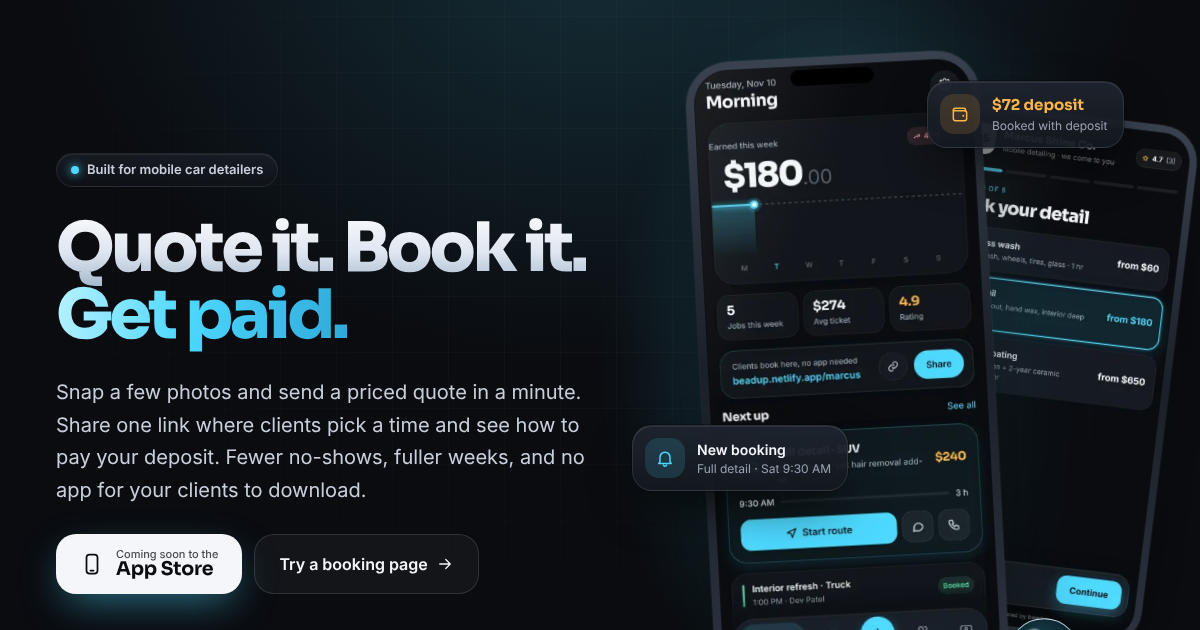
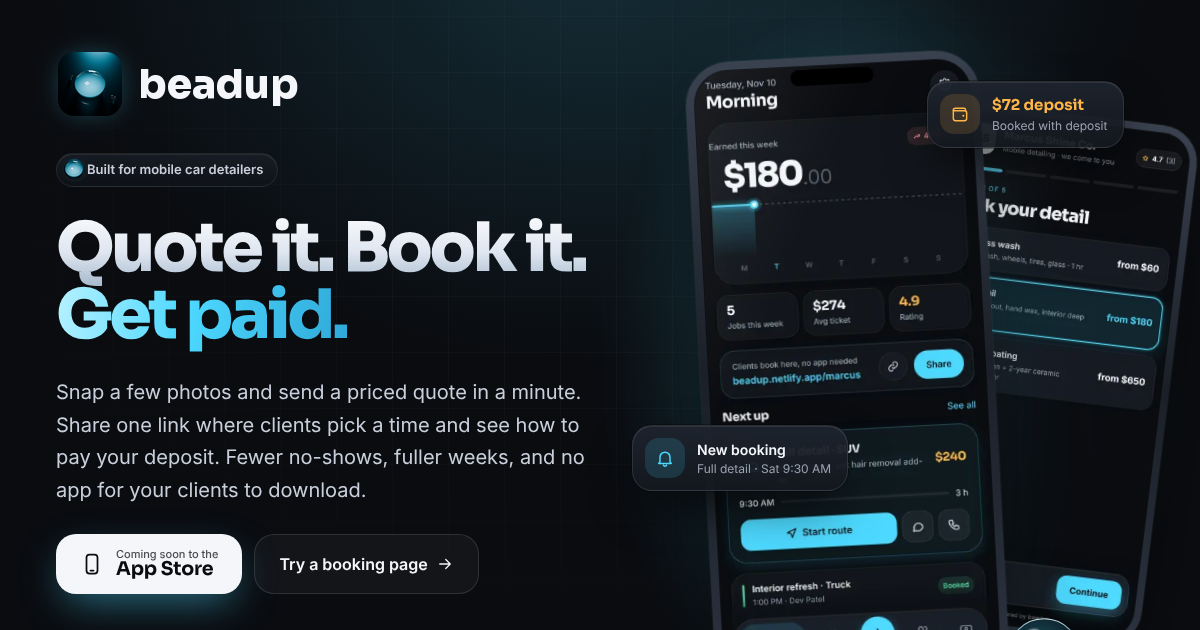
Shares show the Beadup preview card, review reasons, invite code fits
- Every share (booking link, QR, settings, quote, balance link, review request, invite) sends
  the link as a link (iOS Share url), so Messages shows the preview card instead of plain text
- Link previews carry the real app icon: site image gets the icon + wordmark (and the badge's
  dot becomes a bead), each detailer's card shows the icon top-left and in the footer
- Review page asks "What could have been better?" for 1 to 3 stars and "What did you like most?"
  for 4 to 5; the detailer gets a push with the stars and the start of the comment (opens Reviews)
- Booking alerts use the detailer's currency
- Invite & earn: long invite codes shrink to fit instead of being cut off

Changed region(s): [[0.0617, 0.0603, 0.2467, 0.181], [0.0308, 0.2413, 0.0925, 0.2714]]

diff --git a/apps/web/src/lib/og-logo.ts b/apps/web/src/lib/og-logo.ts
@@ -1,0 +1,3 @@
+// The Beadup app icon (128 px PNG), embedded so link-preview images never depend on a network fetch.
+// Regenerate from src/app/apple-icon.png if the icon changes.
[1 lines of base64/hex data omitted]

diff --git a/apps/web/src/lib/push.ts b/apps/web/src/lib/push.ts
@@ -1,4 +1,5 @@
 import "server-only";
+import { formatMoney, type Country } from "./countries";
 import { supabaseAdmin } from "./supabase-admin";
 
 // Booking alerts to the detailer's phone via the Expo push service.
@@ -41,7 +42,7 @@ export async function notifyPayment(bookingId: string, kind: "deposit" | "balanc
   if (!db) return;
   const { data } = await db
     .from("bookings")
-    .select("detailer_id, service_name, starts_at, subtotal_cents, deposit_cents, client:clients(name), detailer:detailers(timezone)")
+    .select("detailer_id, service_name, starts_at, subtotal_cents, deposit_cents, client:clients(name), detailer:detailers(timezone, country)")
     .eq("id", bookingId)
     .maybeSingle();
   if (!data) return;
@@ -52,13 +53,13 @@ export async function notifyPayment(bookingId: string, kind: "deposit" | "balanc
     subtotal_cents: number;
     deposit_cents: number;
     client: { name: string } | null;
-    detailer: { timezone: string } | null;
+    detailer: { timezone: string; country: Country } | null;
   };
   const tz = b.detailer?.timezone ?? "America/Chicago";
   const [first, last] = (b.client?.name ?? "A client").split(" ");
   const who = last ? `${first} ${last[0]}.` : first;
   const when = new Date(b.starts_at).toLocaleString("en-US", { timeZone: tz, weekday: "short", hour: "numeric", minute: "2-digit" });
-  const usd = (c: number) => `$${(c / 100).toFixed(c % 100 ? 2 : 0)}`;
+  const usd = (c: number) => formatMoney(c, b.detailer?.country ?? "US"); // the detailer's own currency
 
   if (kind === "booked") {
     // External payments: the client pays the deposit to the detailer directly.
@@ -68,4 +69,17 @@ export async function notifyPayment(bookingId: string, kind: "deposit" | "balanc
   } else {
     await sendToDetailer(b.detailer_id, `${who} paid you`, `${b.service_name} paid in full, ${usd(b.subtotal_cents)}.`, `/paid/${bookingId}`);
   }
+}
+
+/** "New 2-star review" alert, with the start of what the client wrote. Opens the Reviews screen. */
+export async function notifyReview(token: string, rating: number, body: string): Promise<void> {
+  const db = supabaseAdmin();
+  if (!db) return;
+  const { data } = await db.from("bookings").select("detailer_id, client:clients(name)").eq("review_token", token).maybeSingle();
+  if (!data) return;
+  const client = (Array.isArray(data.client) ? data.client[0] : data.client) as { name?: string } | null;
+  const first = (client?.name ?? "A client").split(" ")[0];
+  const text = body.trim();
+  const said = text ? `: "${text.length > 90 ? `${text.slice(0, 89)}…` : text}"` : ".";
+  await sendToDetailer(data.detailer_id as string, `New ${rating}-star review`, `${first} rated your detail ${rating} out of 5${said}`, "/reviews");
 }

diff --git a/apps/mobile/src/app/settings/invite.tsx b/apps/mobile/src/app/settings/invite.tsx
@@ -1,7 +1,7 @@
 import * as Clipboard from 'expo-clipboard';
 import { LinearGradient } from 'expo-linear-gradient';
 import { useState } from 'react';
-import { Pressable, Share, StyleSheet, View } from 'react-native';
+import { Pressable, StyleSheet, View } from 'react-native';
 import Animated, { FadeInDown } from 'react-native-reanimated';
 
 import { LiquidBead } from '@/components/bead/LiquidBead';
@@ -15,6 +15,7 @@ import { Text } from '@/components/ui/Text';
 import { claimReferral, fetchReferralStatus, useQuery, type ClaimError } from '@/lib/data';
 import { dayLabel } from '@/lib/format';
 import { haptic } from '@/lib/haptics';
+import { shareLink } from '@/lib/share';
 import { apiBaseUrl } from '@/lib/supabase';
 import { colors, space } from '@/theme/tokens';
 
@@ -41,12 +42,13 @@ export default function Invite() {
 
   const site = apiBaseUrl.replace(/^https?:\/\//, '');
   const message = s
-    ? `I run my detailing bookings on Beadup: quotes from photos, one booking link, deposits straight to me. Get it at ${apiBaseUrl} and enter my code "${s.code}" when you set up. We both get a free month of Pro.`
+    ? `I run my detailing bookings on Beadup: quotes from photos, one booking link, deposits straight to me. Enter my code "${s.code}" when you set up and we both get a free month of Pro.`
     : '';
 
   const share = () => {
     haptic.select();
-    Share.share({ message }).catch(() => {});
+    // The site link carries the Beadup preview card (logo + app screens).
+    shareLink(message, apiBaseUrl);
   };
   const copy = async () => {
     if (!s) return;
@@ -91,7 +93,8 @@ export default function Invite() {
           <GlassCard>
             <Text variant="eyebrow">Your invite code</Text>
             <View style={styles.codeRow}>
-              <Text style={styles.code} numberOfLines={1}>
+              {/* Long codes shrink to fit instead of being cut off. */}
+              <Text style={styles.code} numberOfLines={1} adjustsFontSizeToFit minimumFontScale={0.4}>
                 {s.code}
               </Text>
               <Pressable onPress={copy} style={styles.copy} accessibilityRole="button" accessibilityLabel={copied ? 'Code copied' : 'Copy invite code'}>

diff --git a/apps/web/src/app/[handle]/opengraph-image.tsx b/apps/web/src/app/[handle]/opengraph-image.tsx
@@ -1,6 +1,7 @@
 import { ImageResponse } from "next/og";
 import { getBookingPage } from "@/lib/booking-page";
 import { formatMoney } from "@/lib/countries";
+import { OG_LOGO } from "@/lib/og-logo";
 
 // The preview card shown when a detailer pastes their link into a text,
 // iMessage, Instagram DM or Facebook: business name, area, rating and
@@ -32,15 +33,8 @@ export default async function Image({ params }: { params: Promise<{ handle: stri
         }}
       >
         <div style={{ display: "flex", alignItems: "center", gap: 18 }}>
-          <div
-            style={{
-              width: 56,
-              height: 60,
-              borderRadius: 999,
-              background: "radial-gradient(circle at 35% 30%, #ffffff, #4DD8FF 45%, #0B4F7A 100%)",
-              boxShadow: "0 0 40px rgba(77,216,255,0.55)",
-            }}
-          />
+          {/* eslint-disable-next-line @next/next/no-img-element -- ImageResponse renders plain <img> */}
+          <img src={OG_LOGO} width={64} height={64} alt="" style={{ borderRadius: 16, boxShadow: "0 0 40px rgba(77,216,255,0.45)" }} />
           <div style={{ display: "flex", flexDirection: "column" }}>
             <span style={{ fontSize: 22, color: "#9AA3B2", letterSpacing: 4, textTransform: "uppercase" }}>Book online</span>
             {d?.serviceArea ? <span style={{ fontSize: 26, color: "#C9D0DB" }}>{`Mobile detailing · ${d.serviceArea}`}</span> : null}
@@ -79,7 +73,11 @@ export default async function Image({ params }: { params: Promise<{ handle: stri
               </div>
             ))}
           </div>
-          <span style={{ fontSize: 26, color: "#4DD8FF", fontWeight: 700 }}>beadup</span>
+          <div style={{ display: "flex", alignItems: "center", gap: 10 }}>
+            {/* eslint-disable-next-line @next/next/no-img-element -- ImageResponse renders plain <img> */}
+            <img src={OG_LOGO} width={30} height={30} alt="" style={{ borderRadius: 8 }} />
+            <span style={{ fontSize: 26, color: "#F4F6FA", fontWeight: 700 }}>beadup</span>
+          </div>
         </div>
       </div>
     ),

diff --git a/apps/mobile/src/app/quote.tsx b/apps/mobile/src/app/quote.tsx
@@ -13,6 +13,7 @@ import { Text } from '@/components/ui/Text';
 import { fetchCatalog, fetchProfile, saveQuote, useQuery, type QuoteItem } from '@/lib/data';
 import { currencySymbol, money } from '@/lib/format';
 import { haptic } from '@/lib/haptics';
+import { shareLink } from '@/lib/share';
 import { apiBaseUrl } from '@/lib/supabase';
 import { colors, fonts, radius } from '@/theme/tokens';
 
@@ -71,10 +72,10 @@ export default function NewQuote() {
       await saveQuote({ quoteId, vehicleSize: size, vehicleDesc: vehicle.trim(), items, notes: '', status: 'sent' });
       haptic.success();
       const lines = items.map((i) => `${i.label}: ${money(i.cents)}`).join('\n');
-      const link = profile.data ? `\n\nBook here: ${apiBaseUrl}/${profile.data.handle}` : '';
-      await Share.share({
-        message: `Quote from ${profile.data?.businessName ?? 'your detailer'}${vehicle ? ` for your ${vehicle.trim()}` : ''}\n\n${lines}\nTotal: ${money(total)} (30% deposit ${money(depositOf(total))})${link}`,
-      });
+      const text = `Quote from ${profile.data?.businessName ?? 'your detailer'}${vehicle ? ` for your ${vehicle.trim()}` : ''}\n\n${lines}\nTotal: ${money(total)} (30% deposit ${money(depositOf(total))})`;
+      // With a booking link, share it as a link so the client sees the detailer's preview card.
+      if (profile.data) await shareLink(`${text}\n\nBook here:`, `${apiBaseUrl}/${profile.data.handle}`);
+      else await Share.share({ message: text });
       router.back();
     } catch {
       haptic.error();

diff --git a/apps/mobile/src/app/settings/index.tsx b/apps/mobile/src/app/settings/index.tsx
@@ -2,7 +2,7 @@ import * as Clipboard from 'expo-clipboard';
 import { router, useFocusEffect } from 'expo-router';
 import * as WebBrowser from 'expo-web-browser';
 import { useCallback, useEffect, useState } from 'react';
-import { Linking, Pressable, Share, StyleSheet, Switch, View } from 'react-native';
+import { Linking, Pressable, StyleSheet, Switch, View } from 'react-native';
 
 import { BackButton } from '@/components/nav/BackButton';
 import { Icon, type IconName } from '@/components/ui/Icon';
@@ -13,6 +13,7 @@ import { signOut } from '@/lib/auth';
 import { fetchAccount, fetchPaymentDetails, fetchPlanUsage, fetchProfile, startPayoutsSetup, usePaymentsMode, useQuery } from '@/lib/data';
 import { initials } from '@/lib/format';
 import { haptic } from '@/lib/haptics';
+import { shareLink } from '@/lib/share';
 import { disablePush, enablePush, pushState, type PushState } from '@/lib/push';
 import { apiBaseUrl } from '@/lib/supabase';
 import { colors } from '@/theme/tokens';
@@ -160,7 +161,7 @@ export default function Settings() {
           accessibilityRole="button"
           onPress={() => {
             haptic.tap();
-            Share.share({ message: `Book your next detail with ${p?.businessName ?? 'me'}: ${fullUrl}` });
+            shareLink(`Book your next detail with ${p?.businessName ?? 'me'}:`, fullUrl);
           }}
           style={styles.shareBtn}>
           <Icon name="share" size={18} color={colors.beadInk} strokeWidth={2.2} />

diff --git a/apps/mobile/src/app/booking/[id].tsx b/apps/mobile/src/app/booking/[id].tsx
@@ -1,6 +1,6 @@
 import { router, useLocalSearchParams } from 'expo-router';
 import { useState } from 'react';
-import { Linking, Share, StyleSheet, View } from 'react-native';
+import { Linking, StyleSheet, View } from 'react-native';
 
 import { BackButton } from '@/components/nav/BackButton';
 import { AskReviewButton } from '@/components/AskReviewButton';
@@ -10,6 +10,7 @@ import { Text } from '@/components/ui/Text';
 import { cancelBooking, fetchBooking, fetchProfile, markDepositReceived, requestBalanceLink, setBookingStatus, usePaymentsMode, useQuery } from '@/lib/data';
 import { dayLabel, timeOf, money } from '@/lib/format';
 import { haptic } from '@/lib/haptics';
+import { shareLink } from '@/lib/share';
 import { useNow } from '@/lib/time';
 import { space } from '@/theme/tokens';
 
@@ -154,7 +155,7 @@ export default function BookingDetail() {
                   const link = await requestBalanceLink(b.id);
                   haptic.success();
                   setNotice(null);
-                  await Share.share({ message: `Thanks for choosing us! Pay your balance here: ${link.url}` });
+                  await shareLink('Thanks for choosing us! Pay your balance here:', link.url);
                 })
               }
             />

diff --git a/apps/mobile/src/components/QrSheet.tsx b/apps/mobile/src/components/QrSheet.tsx
@@ -1,7 +1,7 @@
 // eslint-disable-next-line import/no-named-as-default -- the package's types only declare a default export
 import qrcode from 'qrcode-generator';
 import { useMemo } from 'react';
-import { Modal, Pressable, ScrollView, Share, StyleSheet, View } from 'react-native';
+import { Modal, Pressable, ScrollView, StyleSheet, View } from 'react-native';
 import Animated, { FadeInDown, ZoomIn } from 'react-native-reanimated';
 import { SafeAreaView } from 'react-native-safe-area-context';
 import Svg, { Path, Rect } from 'react-native-svg';
@@ -9,6 +9,7 @@ import Svg, { Path, Rect } from 'react-native-svg';
 import { Icon } from '@/components/ui/Icon';
 import { Text } from '@/components/ui/Text';
 import { haptic } from '@/lib/haptics';
+import { shareLink } from '@/lib/share';
 import { colors } from '@/theme/tokens';
 
 /** One SVG path for every dark module: fast to draw and crisp at any size. */
@@ -33,7 +34,7 @@ export function QrSheet({ visible, onClose, url, businessName }: { visible: bool
 
   const share = () => {
     haptic.select();
-    Share.share({ message: `Book your next detail with ${businessName}: ${url}` }).catch(() => {});
+    shareLink(`Book your next detail with ${businessName}:`, url);
   };
 
   return (

diff --git a/apps/web/src/app/r/[token]/ReviewForm.tsx b/apps/web/src/app/r/[token]/ReviewForm.tsx
@@ -87,11 +87,18 @@ export function ReviewForm({ token, businessName, firstName }: { token: string; 
       </p>
 
       <label className="flex w-full flex-col gap-2 text-left">
-        <span className="text-[13px] text-steel">Anything to add? (optional)</span>
+        <span className="text-[13px] text-steel">
+          {rating === 0
+            ? "Anything to add? (optional)"
+            : rating <= 3
+              ? "What could have been better? Your detailer reads every review."
+              : "What did you like most? (optional)"}
+        </span>
         <textarea
           value={body}
           onChange={(e) => setBody(e.target.value.slice(0, 1000))}
           rows={4}
+          placeholder={rating > 0 && rating <= 3 ? "For example: arrived late, missed a spot on the wheels" : "For example: on time, interior looks brand new"}
           className="w-full resize-none rounded-2xl border border-line bg-black/30 p-4 text-base text-paint outline-none transition-[border-color,box-shadow] focus:border-bead/70 focus:shadow-[0_0_0_4px_rgba(77,216,255,0.12)]"
         />
       </label>

diff --git a/apps/mobile/src/components/BookingLinkCard.tsx b/apps/mobile/src/components/BookingLinkCard.tsx
@@ -1,11 +1,12 @@
 import * as Clipboard from 'expo-clipboard';
 import { useState } from 'react';
-import { Pressable, Share, StyleSheet, View } from 'react-native';
+import { Pressable, StyleSheet, View } from 'react-native';
 
 import { QrSheet } from '@/components/QrSheet';
 import { Icon } from '@/components/ui/Icon';
 import { Text } from '@/components/ui/Text';
 import { haptic } from '@/lib/haptics';
+import { shareLink } from '@/lib/share';
 import { apiBaseUrl } from '@/lib/supabase';
 import { colors } from '@/theme/tokens';
 
@@ -22,7 +23,7 @@ export function BookingLinkCard({ handle, businessName }: { handle: string; busi
 
   const share = () => {
     haptic.select();
-    Share.share({ message: `Book your next detail with ${businessName}: ${url}` }).catch(() => {});
+    shareLink(`Book your next detail with ${businessName}:`, url);
   };
   const copy = async () => {
     await Clipboard.setStringAsync(url);

diff --git a/apps/web/src/app/r/[token]/actions.ts b/apps/web/src/app/r/[token]/actions.ts
@@ -2,6 +2,8 @@
 
 import { updateTag } from "next/cache";
 import { headers } from "next/headers";
+import { after } from "next/server";
+import { notifyReview } from "@/lib/push";
 import { clientIp } from "@/lib/client-ip";
 import { createHash } from "node:crypto";
 import { z } from "zod";
@@ -37,5 +39,7 @@ export async function submitReview(raw: z.input<typeof input>): Promise<ReviewRe
   const res = data as { ok: boolean; error?: string; handle?: string };
   if (!res.ok) return { ok: false, error: res.error === "already_reviewed" ? "already_reviewed" : "invalid" };
   if (res.handle) updateTag(bookingPageTag(res.handle)); // the rating on the booking page
+  // Tell the detailer right away, with the reason (best effort, never blocks the client).
+  after(() => notifyReview(parsed.data.token, parsed.data.rating, parsed.data.body));
   return { ok: true };
 }

diff --git a/apps/mobile/src/components/AskReviewButton.tsx b/apps/mobile/src/components/AskReviewButton.tsx
@@ -1,8 +1,9 @@
-import { Linking, Share } from 'react-native';
+import { Linking } from 'react-native';
 
 import { Button } from '@/components/ui/Button';
 import { fetchReviewLink, useQuery } from '@/lib/data';
 import { haptic } from '@/lib/haptics';
+import { shareLink } from '@/lib/share';
 
 /**
  * "Ask for a review" on a completed job. Opens the detailer's own Messages app
@@ -37,7 +38,7 @@ export function AskReviewButton({
     } catch {
       // fall through to the share sheet
     }
-    Share.share({ message }).catch(() => {});
+    shareLink(`Hi ${first}, thanks for choosing ${businessName}! If you have 30 seconds, a quick rating helps a lot:`, link.data!.url);
   };
 
   return <Button label="Ask for a review" variant="glass" onPress={ask} />;
